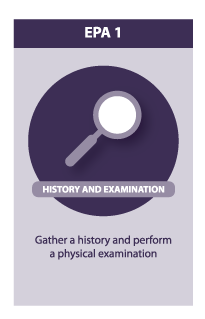
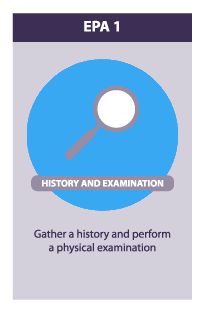
Made the badges opaque and created more partials.

diff --git a/app/assets/stylesheets/ls_reports_spreadsheet.scss b/app/assets/stylesheets/ls_reports_spreadsheet.scss
@@ -263,7 +263,6 @@ div.precept-header {
   height: 3%;
 }
 
-.column-img {
-  flex: 33.33%;
-  padding: 5px;
+.opaque-image {
+  opacity: 0.5;
 }
